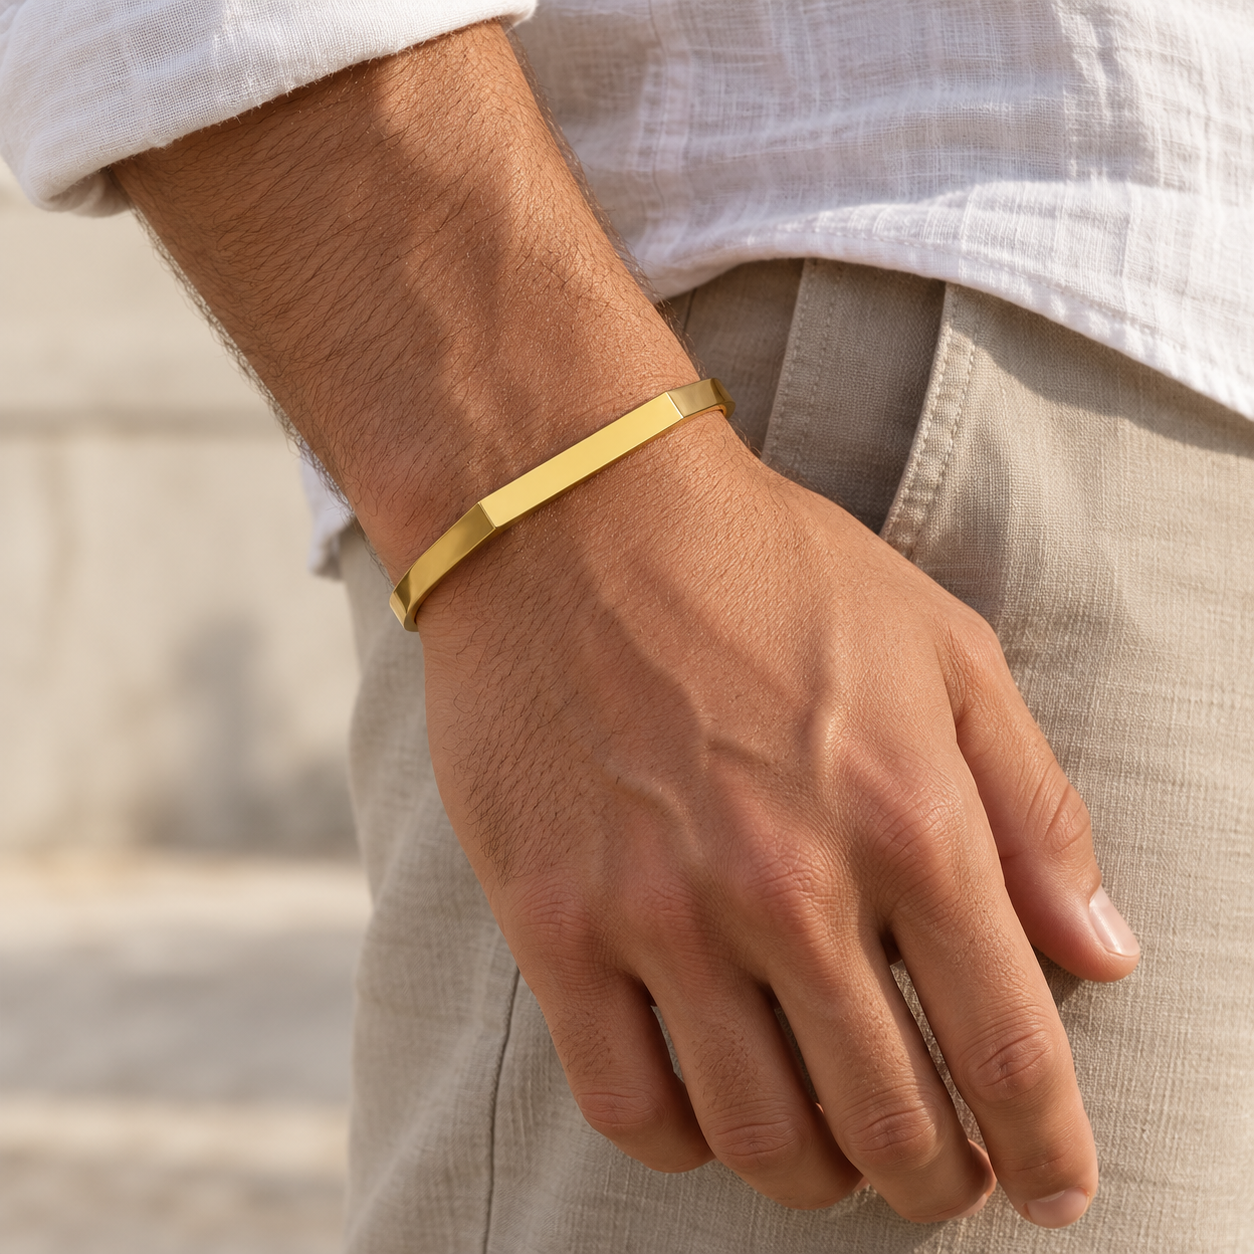
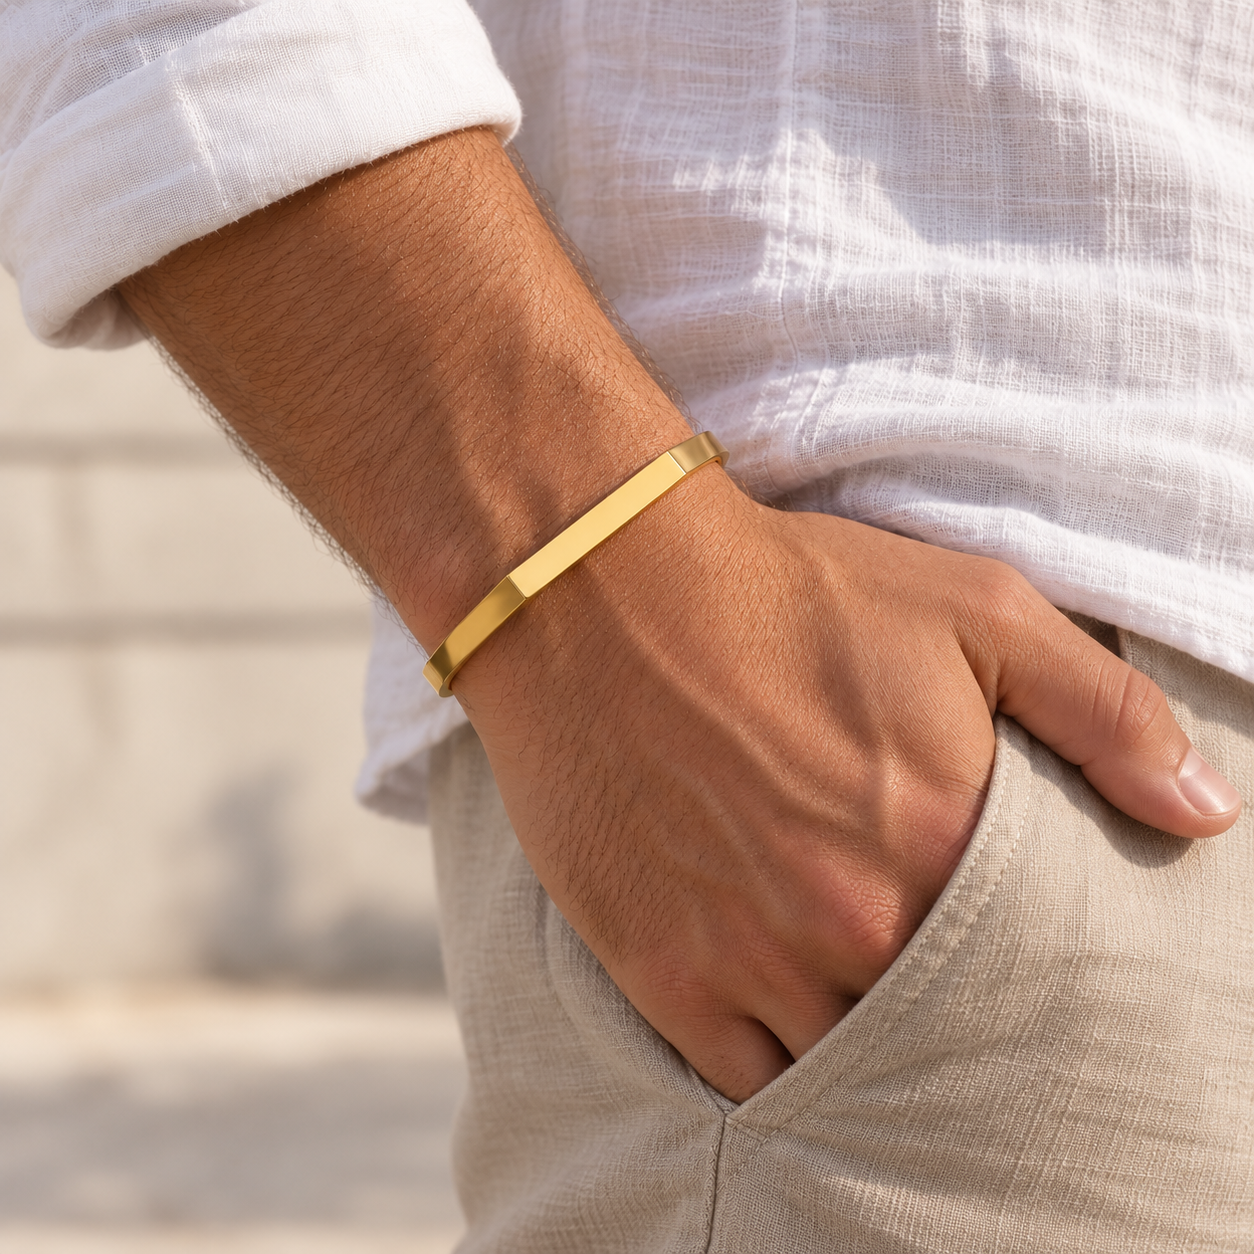
Rediseno: nuevo colgante Pacifico (oro) y foto puesta nueva de Ajolote (rama local)

diff --git a/hombre.js b/hombre.js
@@ -47,6 +47,9 @@ const COLECCION_HOMBRE = [
       oro:        ['img/hombre/collar-8-oro-producto.jpg', 'img/hombre/collar-8-oro-puesto.png', 'img/hombre/collar-8-oro-puesto-2.png'],
       oro_blanco: ['img/hombre/collar-8-oro-blanco-producto.png', 'img/hombre/collar-8-oro-blanco-puesto.png', 'img/hombre/collar-8-oro-blanco-puesto-2.png'],
   } },
+  { id: 'hombre_colgante_2', tipo: 'colgantes', nombre: 'Pacífico', acabados: {
+      oro:        ['img/hombre/colgante-2-oro-producto.jpg', 'img/hombre/colgante-2-oro-puesto.jpg'],
+  } },
   { id: 'hombre_pulsera_1', tipo: 'pulseras', nombre: 'Maya', acabados: {
       oro:        ['img/hombre/pulsera-1-oro-producto.jpg', 'img/hombre/pulsera-1-oro-puesto.jpg', 'img/hombre/pulsera-1-oro-puesto-2.png'],
       oro_blanco: ['img/hombre/pulsera-1-oro-blanco-producto.png', 'img/hombre/pulsera-1-oro-blanco-puesto.png', 'img/hombre/pulsera-1-oro-blanco-puesto-2.png'],
@@ -81,7 +84,7 @@ const COLECCION_HOMBRE = [
       oro_blanco: ['img/hombre/brazalete-3-oro-blanco-producto.png', 'img/hombre/brazalete-3-oro-blanco-puesto.jpg', 'img/hombre/brazalete-3-oro-blanco-puesto-2.png'],
   } },
   { id: 'hombre_brazalete_4', tipo: 'pulseras', nombre: 'Ajolote', acabados: {
-      oro:        ['img/hombre/brazalete-4-oro-producto.jpg', 'img/hombre/brazalete-4-oro-puesto.png'],
+      oro:        ['img/hombre/brazalete-4-oro-producto.jpg', 'img/hombre/brazalete-4-oro-puesto.png', 'img/hombre/brazalete-4-oro-puesto-2.png'],
       oro_blanco: ['img/hombre/brazalete-4-oro-blanco-producto.png', 'img/hombre/brazalete-4-oro-blanco-puesto.jpg', 'img/hombre/brazalete-4-oro-blanco-puesto-2.jpg'],
   } },
   { id: 'hombre_anillo_1', tipo: 'anillos', nombre: 'Ocaso', acabados: {

diff --git a/hombre-focos.js b/hombre-focos.js
@@ -73,6 +73,10 @@ const FOCOS_HOMBRE = {
   25.8,
   71.5
  ],
+ "img/hombre/colgante-2-oro-producto.jpg": [
+  52.9,
+  87.1
+ ],
  "img/hombre/collar-1-negro-producto.jpg": [
   48.9,
   93.1
